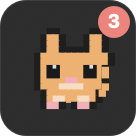
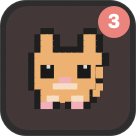
Add demo GIF; use generic session names in README media
- docs/demo.gif: scripted walkthrough (working → needs-permission alert →
  expand tabs → your-turn → collapse), assembled natively via ImageIO
- Re-shot screenshots with generic demo names (api-gateway/web-dashboard/
  payments-svc) instead of real session titles
- README leads with the GIF

Changed region(s): [[0.2353, 0.2059, 0.8529, 0.8235], [0.3824, 0.2059, 0.5, 0.4118]]

diff --git a/README.md b/README.md
@@ -9,12 +9,16 @@ Native Swift/AppKit. Single ~190 KB binary, no dependencies, near-zero CPU when
 idle. macOS only.
 
 <p align="center">
-  <img src="docs/collapsed.png" width="120" alt="Rocky, collapsed — one pet with an alert badge">
-  &nbsp;&nbsp;&nbsp;
-  <img src="docs/expanded.png" width="300" alt="Rocky, expanded — hero pet plus a tab per session">
+  <img src="docs/demo.gif" width="380" alt="Rocky demo: the pet reacts as a session needs permission, then you click it to reveal the session tabs">
 </p>
 
-<p align="center"><em>Click the pet to reveal your sessions. 🔴 needs permission · 🟢 your turn · 🔵 working · ⚪ idle</em></p>
+<p align="center"><em>The pet's mood tracks your sessions. Click it to reveal them — 🔴 needs permission · 🟢 your turn · 🔵 working · ⚪ idle — and click a tab to jump to that terminal.</em></p>
+
+<p align="center">
+  <img src="docs/collapsed.png" width="110" alt="collapsed">
+  &nbsp;&nbsp;&nbsp;
+  <img src="docs/expanded.png" width="300" alt="expanded">
+</p>
 
 ## What it does
 